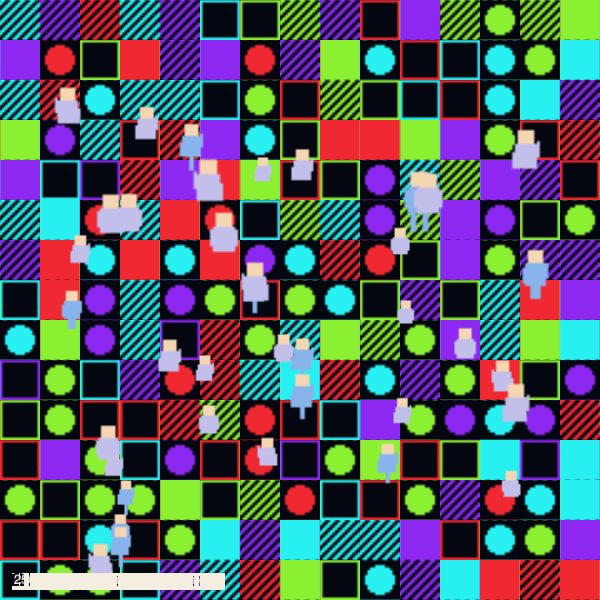
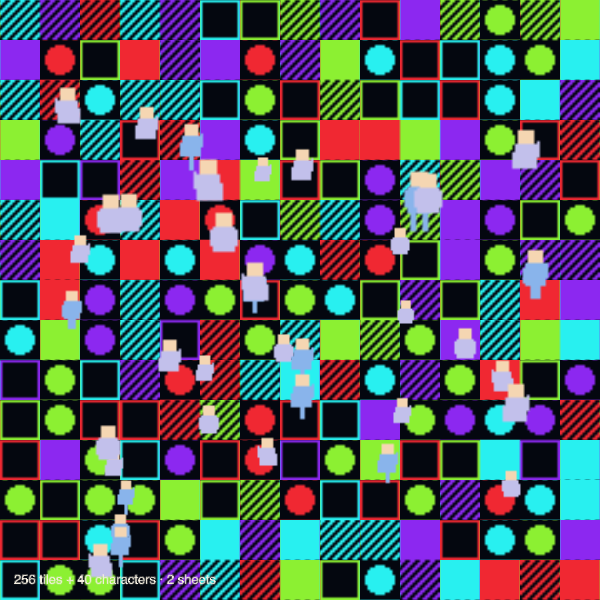
fix(webgl2): draw text where the rasteriser reports no derivative
The glyph shader softened its edge with smoothstep(-aa, aa, d), aa being
fwidth(d) — a range that is only valid while aa is positive, and one GLSL
leaves undefined once edge0 >= edge1. Magnifying the atlas makes a software
rasteriser sample one texel for all four fragments of a 2x2 quad: measured
under SwiftShader, fwidth came back exactly 0 on 9128 of 16384 pixels of a
glyph, never negative and never NaN. The undefined answer was the inverse of
the letter, so every still captured in headless Chromium showed a solid bar
with the text punched out of it.

Both fragment shaders now floor the width, which changes nothing where the
derivative is real and falls back to a hard edge where it is not.

The harness had twenty scenes and not one drew a glyph, which is why this
shipped: the only pipeline without an analytic distance was the only one
never compared. A text scene closes that — 1.16 mean against Canvas2D with
the fix, 25.60 without, against a tolerance of 6.

bun run compare also now builds the workspace before bundling. It inlines the
packages from their dist, so a stale dist made it report agreement it had not
measured — which it did to me while I was proving this fix.

Changed region(s): [[0.03, 0.93, 0.39, 0.99]]

diff --git a/packages/backend-webgl2/src/shaders.ts b/packages/backend-webgl2/src/shaders.ts
@@ -17,6 +17,20 @@
  * rectangle, matching Canvas2D exactly.
  */
 
+/**
+ * The narrowest edge any fragment shader will fade an antialiased edge across.
+ *
+ * `smoothstep(-aa, aa, d)` is only defined while `aa` is positive, and a
+ * derivative of zero is not hypothetical: a software rasteriser magnifying a
+ * texture samples one texel for all four fragments of a 2x2 quad and reports
+ * `fwidth` as exactly 0. Flooring the width costs nothing where the derivative
+ * is real — it is orders of magnitude smaller than any true one — and turns the
+ * degenerate case into a hard edge rather than an undefined one.
+ */
+const MIN_AA = `
+const float MIN_AA = 1e-4;
+`;
+
 export const SDF_VERTEX_SHADER: string = `#version 300 es
 
 // Unit quad corner in -1..1, shared by every instance.
@@ -64,6 +78,7 @@ void main() {
 
 export const SDF_FRAGMENT_SHADER: string = `#version 300 es
 precision highp float;
+${MIN_AA}
 
 in vec2 v_local;
 in vec2 v_half;
@@ -96,7 +111,10 @@ void main() {
   // A stroke is the band around the boundary: |d| - halfWidth.
   if (v_edge > 0.0) d = abs(d) - v_edge;
 
-  float aa = fwidth(d);
+  // Floored: smoothstep is undefined when edge0 >= edge1, and a rasteriser
+  // that reports a zero derivative would land exactly there. See the glyph
+  // shader, where that is not hypothetical.
+  float aa = max(fwidth(d), MIN_AA);
   float alpha = 1.0 - smoothstep(-aa, aa, d);
 
   if (alpha <= 0.0) discard;
@@ -145,6 +163,7 @@ void main() {
 
 export const GLYPH_FRAGMENT_SHADER: string = `#version 300 es
 precision highp float;
+${MIN_AA}
 
 in vec2 v_uv;
 in vec4 v_color;
@@ -160,7 +179,14 @@ void main() {
 
   // Screen-space derivative, so the edge stays one pixel wide at any size.
   // This is what SDF buys over a plain coverage atlas.
-  float aa = fwidth(d);
+  //
+  // Floored, because the derivative is not always usable: magnifying the atlas
+  // makes a software rasteriser sample the same texel for all four fragments of
+  // a 2x2 quad, and fwidth then returns exactly 0. smoothstep is undefined once
+  // edge0 >= edge1, and the answer it picks there is the inverse of the glyph —
+  // a solid block with the letter punched out of it. Falling back to a hard
+  // edge is aliased but right.
+  float aa = max(fwidth(d), MIN_AA);
   float alpha = smoothstep(-aa, aa, d);
 
   if (alpha <= 0.0) discard;

diff --git a/bench/run-compare.ts b/bench/run-compare.ts
@@ -11,9 +11,11 @@
  * and runs on an ordinary CI box. That is worth stating plainly, because the
  * repo previously assumed the opposite and left the harness unautomated for it.
  *
- * The bundle is rebuilt every run on purpose: `bench/dist/*.js` inlines the
- * packages, so a stale bundle happily reports that a bug you just fixed is
- * still there — or worse, that one you just introduced is not.
+ * Everything is rebuilt every run on purpose. `bench/dist/*.js` inlines the
+ * packages, and it inlines them from their `dist`, so either being stale makes
+ * the harness happily report that a bug you just fixed is still there — or
+ * worse, that one you just introduced is not. Turbo caches the workspace build,
+ * so the honesty costs a couple of seconds when nothing moved.
  *
  *   bun run compare
  *
@@ -41,22 +43,28 @@ interface Comparison {
   readonly table: string;
 }
 
-function build(): Promise<void> {
+function run(command: string, args: readonly string[], what: string): Promise<void> {
   return new Promise((resolve, reject) => {
-    const child = spawn(
-      "bun",
-      ["build", "bench/compare.ts", "--outfile", "bench/dist/compare.js", "--target", "browser"],
-      { cwd: REPO, stdio: ["ignore", "ignore", "pipe"] },
-    );
+    const child = spawn(command, [...args], { cwd: REPO, stdio: ["ignore", "ignore", "pipe"] });
     let stderr = "";
     child.stderr?.on("data", (chunk: Buffer) => {
       stderr += chunk.toString();
     });
     child.on("close", (code) => {
       if (code === 0) resolve();
-      else reject(new Error(`Bundling bench/compare.ts failed:\n${stderr}`));
+      else reject(new Error(`${what} failed:\n${stderr}`));
     });
   });
+}
+
+/** The packages first, then the bundle that inlines them. */
+async function build(): Promise<void> {
+  await run("bun", ["run", "build"], "Building the workspace");
+  await run(
+    "bun",
+    ["build", "bench/compare.ts", "--outfile", "bench/dist/compare.js", "--target", "browser"],
+    "Bundling bench/compare.ts",
+  );
 }
 
 /**

diff --git a/bench/scenes.ts b/bench/scenes.ts
@@ -375,6 +375,24 @@ export const SCENES: readonly Scene[] = [
     },
   },
   {
+    name: "text",
+    // The one pipeline with no analytic distance: glyphs sample an SDF atlas
+    // built at runtime, so this is the only scene that can catch the atlas
+    // being read wrong. A runtime SDF and the browser's own hinted rasteriser
+    // differ along every stem, but by less than a point in practice — the extra
+    // headroom is for fonts differing between machines, not for slop.
+    draw: (b) => {
+      b.background(0, 0, 0, 1);
+      b.setFill(1, 1, 1, 1);
+      b.setFont("sans-serif");
+      b.setTextSize(34);
+      b.text(30, 90, "Hamburgefonstiv 0123");
+      b.setTextSize(18);
+      b.text(30, 150, "the quick brown fox jumps");
+    },
+    tolerance: 6,
+  },
+  {
     name: "push/pop restores style",
     draw: (b) => {
       b.background(0, 0, 0, 1);

diff --git a/.changeset/glyph-edge.md b/.changeset/glyph-edge.md
@@ -1,0 +1,22 @@
+---
+"@hazumi/backend-webgl2": patch
+---
+
+Draw text correctly where the rasteriser reports no derivative.
+
+The glyph shader softened its edge with `smoothstep(-aa, aa, d)`, where `aa` is
+`fwidth(d)`. That range is only valid while `aa` is positive, and GLSL leaves
+`smoothstep` undefined once `edge0 >= edge1` — so the shader was relying on a
+derivative it never checked.
+
+A zero derivative is not hypothetical. Magnifying the atlas makes a software
+rasteriser sample the same texel for all four fragments of a 2x2 quad:
+measured under SwiftShader, `fwidth` came back as exactly 0 — never negative,
+never NaN — on 9128 of 16384 pixels of one glyph. The undefined answer it then
+picked was the inverse of the letter, so text rendered as a solid block with
+the glyph punched out of it. Every still in `examples/assets/previews` was
+captured that way, since those run in headless Chromium.
+
+Both fragment shaders now floor the width at `MIN_AA`, orders of magnitude
+below any real derivative, so nothing changes where the derivative is usable
+and the degenerate case falls back to a hard edge instead of an undefined one.
